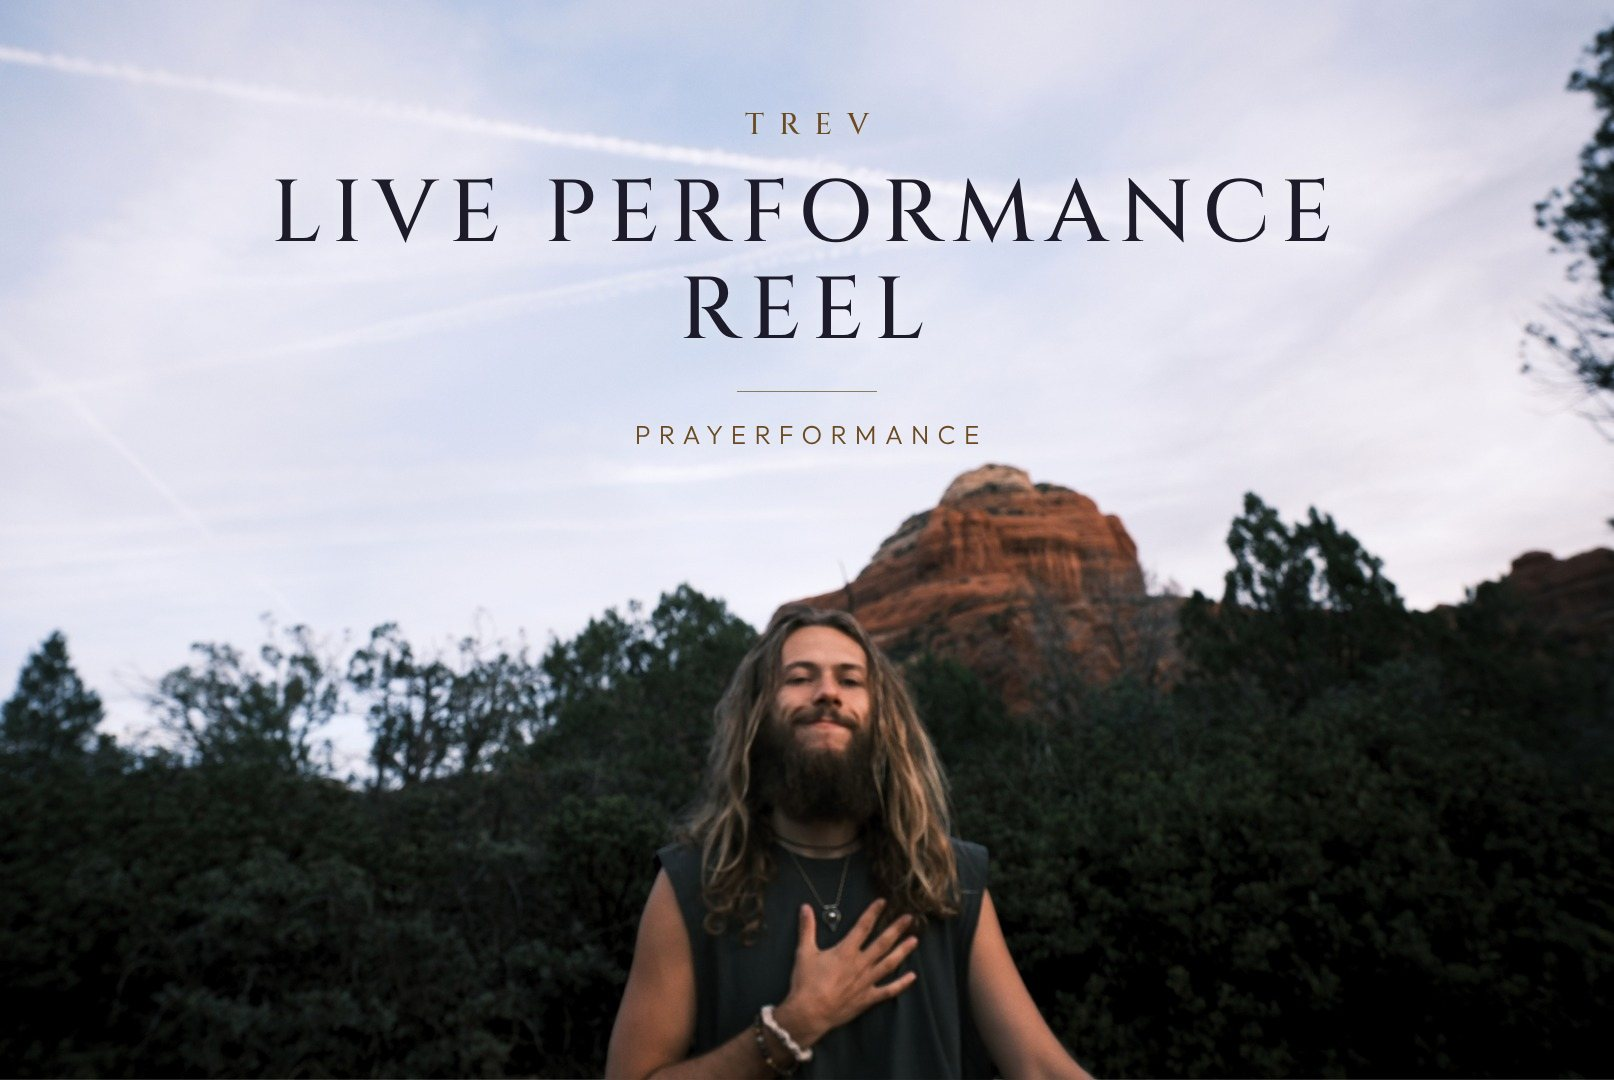
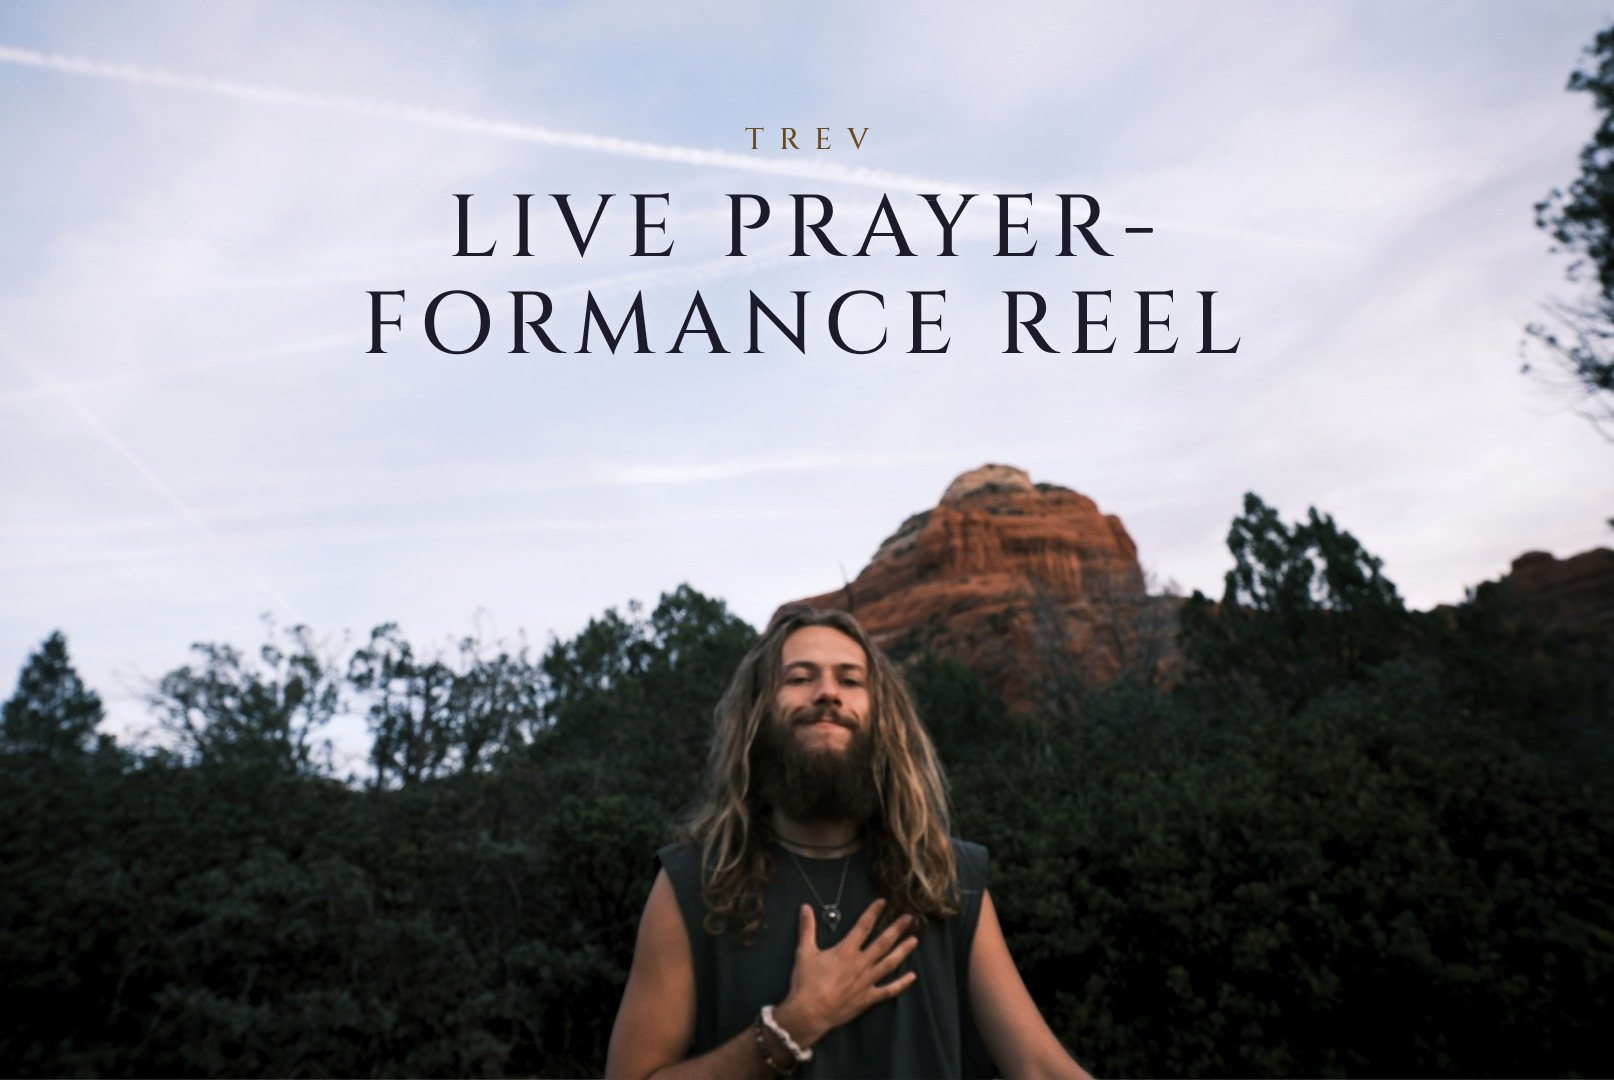
EPK: the settled photo frames TREV's face high and left; the reel says Live Prayer-/formance Reel
When the background settles on the stage photo, it's zoomed so his face
sits in the upper fifth of the screen, 30% across: above Electronic
Press Kit on a phone, left of the TREV title on desktop. The reel's
thumbnail now reads LIVE PRAYER- / FORMANCE REEL, and the repeated
Live prayerformance line under the reel is gone.

Claude-Session: https://claude.ai/code/session_01X5u2D9a4RRbbCvwnE6RQKF

diff --git a/frontend/src/pages/EPK.jsx b/frontend/src/pages/EPK.jsx
@@ -13,7 +13,6 @@ import {
   CAREER_HIGHLIGHTS,
   EPK_TOURED_WITH,
   SHARED_STAGE,
-  EPK_BANNER_TEXT,
   FESTIVALS,
   SITE_GENRE_TAGS,
   SITE_LOCATION,
@@ -129,7 +128,7 @@ const TechRider = () => (
 
 // Live performance highlight reel, front and centre. public/trev-epk-reel.mp4 (web-compressed from
 // TREV's highlight reel); the block hides itself until that file exists.
-const EPK_REEL = { src: "/trev-epk-reel.mp4?v=1", poster: "/trev-epk-reel.jpg?v=1" };
+const EPK_REEL = { src: "/trev-epk-reel.mp4?v=1", poster: "/trev-epk-reel.jpg?v=2" };
 
 const PerformanceReel = () => {
   const [missing, setMissing] = useState(false);
@@ -312,11 +311,14 @@ const EpkBackdrop = () => {
           style={{ opacity: shown ? 0.45 : 0 }}
         />
       )}
+      {/* (his face, in the photo at 46.5% across and 47% down, set high and a little left: the upper fifth of
+          the screen, left of the TREV title, there as soon as the page settles) */}
       <img
         src={EPK_BG_STILL}
         alt=""
-        className="absolute inset-0 h-full w-full scale-110 object-cover"
-        style={{ opacity: done ? 0.36 : 0, transition: "opacity 2s ease" }}
+        className="absolute max-w-none"
+        style={{ "--w": "max(140vw, 130vh)", width: "var(--w)", height: "auto", left: "calc(30vw - var(--w) * 0.465)", top: "calc(18vh - var(--w) * 0.6267)",
+          opacity: done ? 0.36 : 0, transition: "opacity 2s ease" }}
       />
       <div className="absolute inset-0" style={{ background: "radial-gradient(ellipse at 50% 40%, rgba(0,0,0,.25), rgba(0,0,0,.7) 85%)" }} />
     </div>
@@ -358,9 +360,7 @@ export default function EPK() {
           <PerformanceReel />
         </Reveal>
 
-        <Reveal delay={0.1}>
-          <p className="font-accent mt-10 text-sm uppercase tracking-[0.2em] text-[var(--sm-gold)]">{EPK_BANNER_TEXT}</p>
-        </Reveal>
+        <div className="mt-10" />
 
         {/* Slow-scrolling festival-name ticker — ambient, readable at a glance. */}
         <Reveal delay={0.12}>
